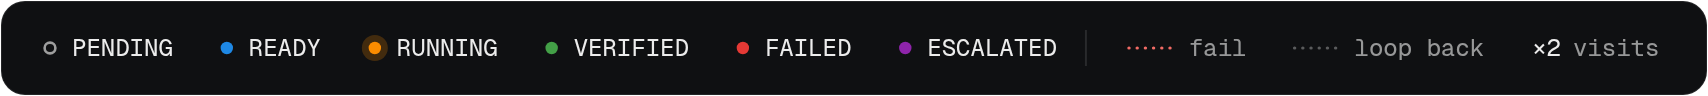
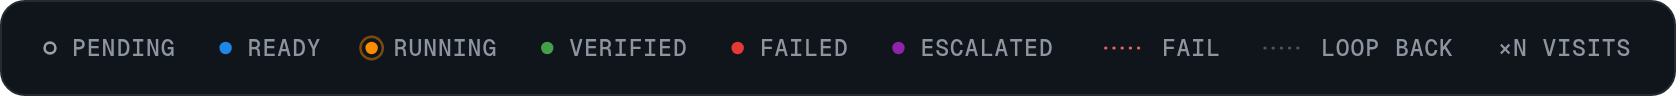
docs(workgraph): orthogonal edge routing, GitHub-matched surfaces, flat status accents

diff --git a/workgraph/README.md b/workgraph/README.md
@@ -23,7 +23,7 @@ back to `plan`.
 
 <picture>
   <source media="(prefers-color-scheme: dark)" srcset="./assets/graph-legend-dark.png">
-  <img src="./assets/graph-legend-light.png" width="692" alt="Key: hollow gray dot PENDING, blue READY, orange RUNNING, green VERIFIED, red FAILED, purple ESCALATED; red dotted line = FAIL edge; gray dotted line = loop back; ×2 = visit count">
+  <img src="./assets/graph-legend-light.png" width="680" alt="Key: hollow gray dot PENDING, blue READY, orange RUNNING, green VERIFIED, red FAILED, purple ESCALATED; red dotted line = FAIL edge; gray dotted line = loop back; ×N = visit count">
 </picture>
 
 ### Multi-source research report with fact-check and revision
@@ -35,7 +35,7 @@ second check is running now. A `critic` FAIL goes back to `synth`.
 
 <picture>
   <source media="(prefers-color-scheme: dark)" srcset="./assets/graph-research-report-dark.png">
-  <img src="./assets/graph-research-report-light.png" width="657" alt="Research report graph: scope, papers, filings, news, synth and revise verified; forums escalated; fact_check ×2 running; critic and publish pending">
+  <img src="./assets/graph-research-report-light.png" width="650" alt="Research report graph: scope, papers, filings, news, synth and revise verified; forums escalated; fact_check ×2 running; critic and publish pending">
 </picture>
 
 ### Release with a test matrix, canary and rollback
@@ -47,7 +47,7 @@ on macOS and e2e, while `notes` waits at `rollout`.
 
 <picture>
   <source media="(prefers-color-scheme: dark)" srcset="./assets/graph-release-canary-dark.png">
-  <img src="./assets/graph-release-canary-light.png" width="745" alt="Release graph: freeze, build ×2, linux ×2, windows ×2, rollback, hotfix and notes verified; macos ×2 and e2e ×2 running; canary failed; gate and rollout pending">
+  <img src="./assets/graph-release-canary-light.png" width="742" alt="Release graph: freeze, build ×2, linux ×2, windows ×2, rollback, hotfix and notes verified; macos ×2 and e2e ×2 running; canary failed; gate and rollout pending">
 </picture>
 
 ```bash
